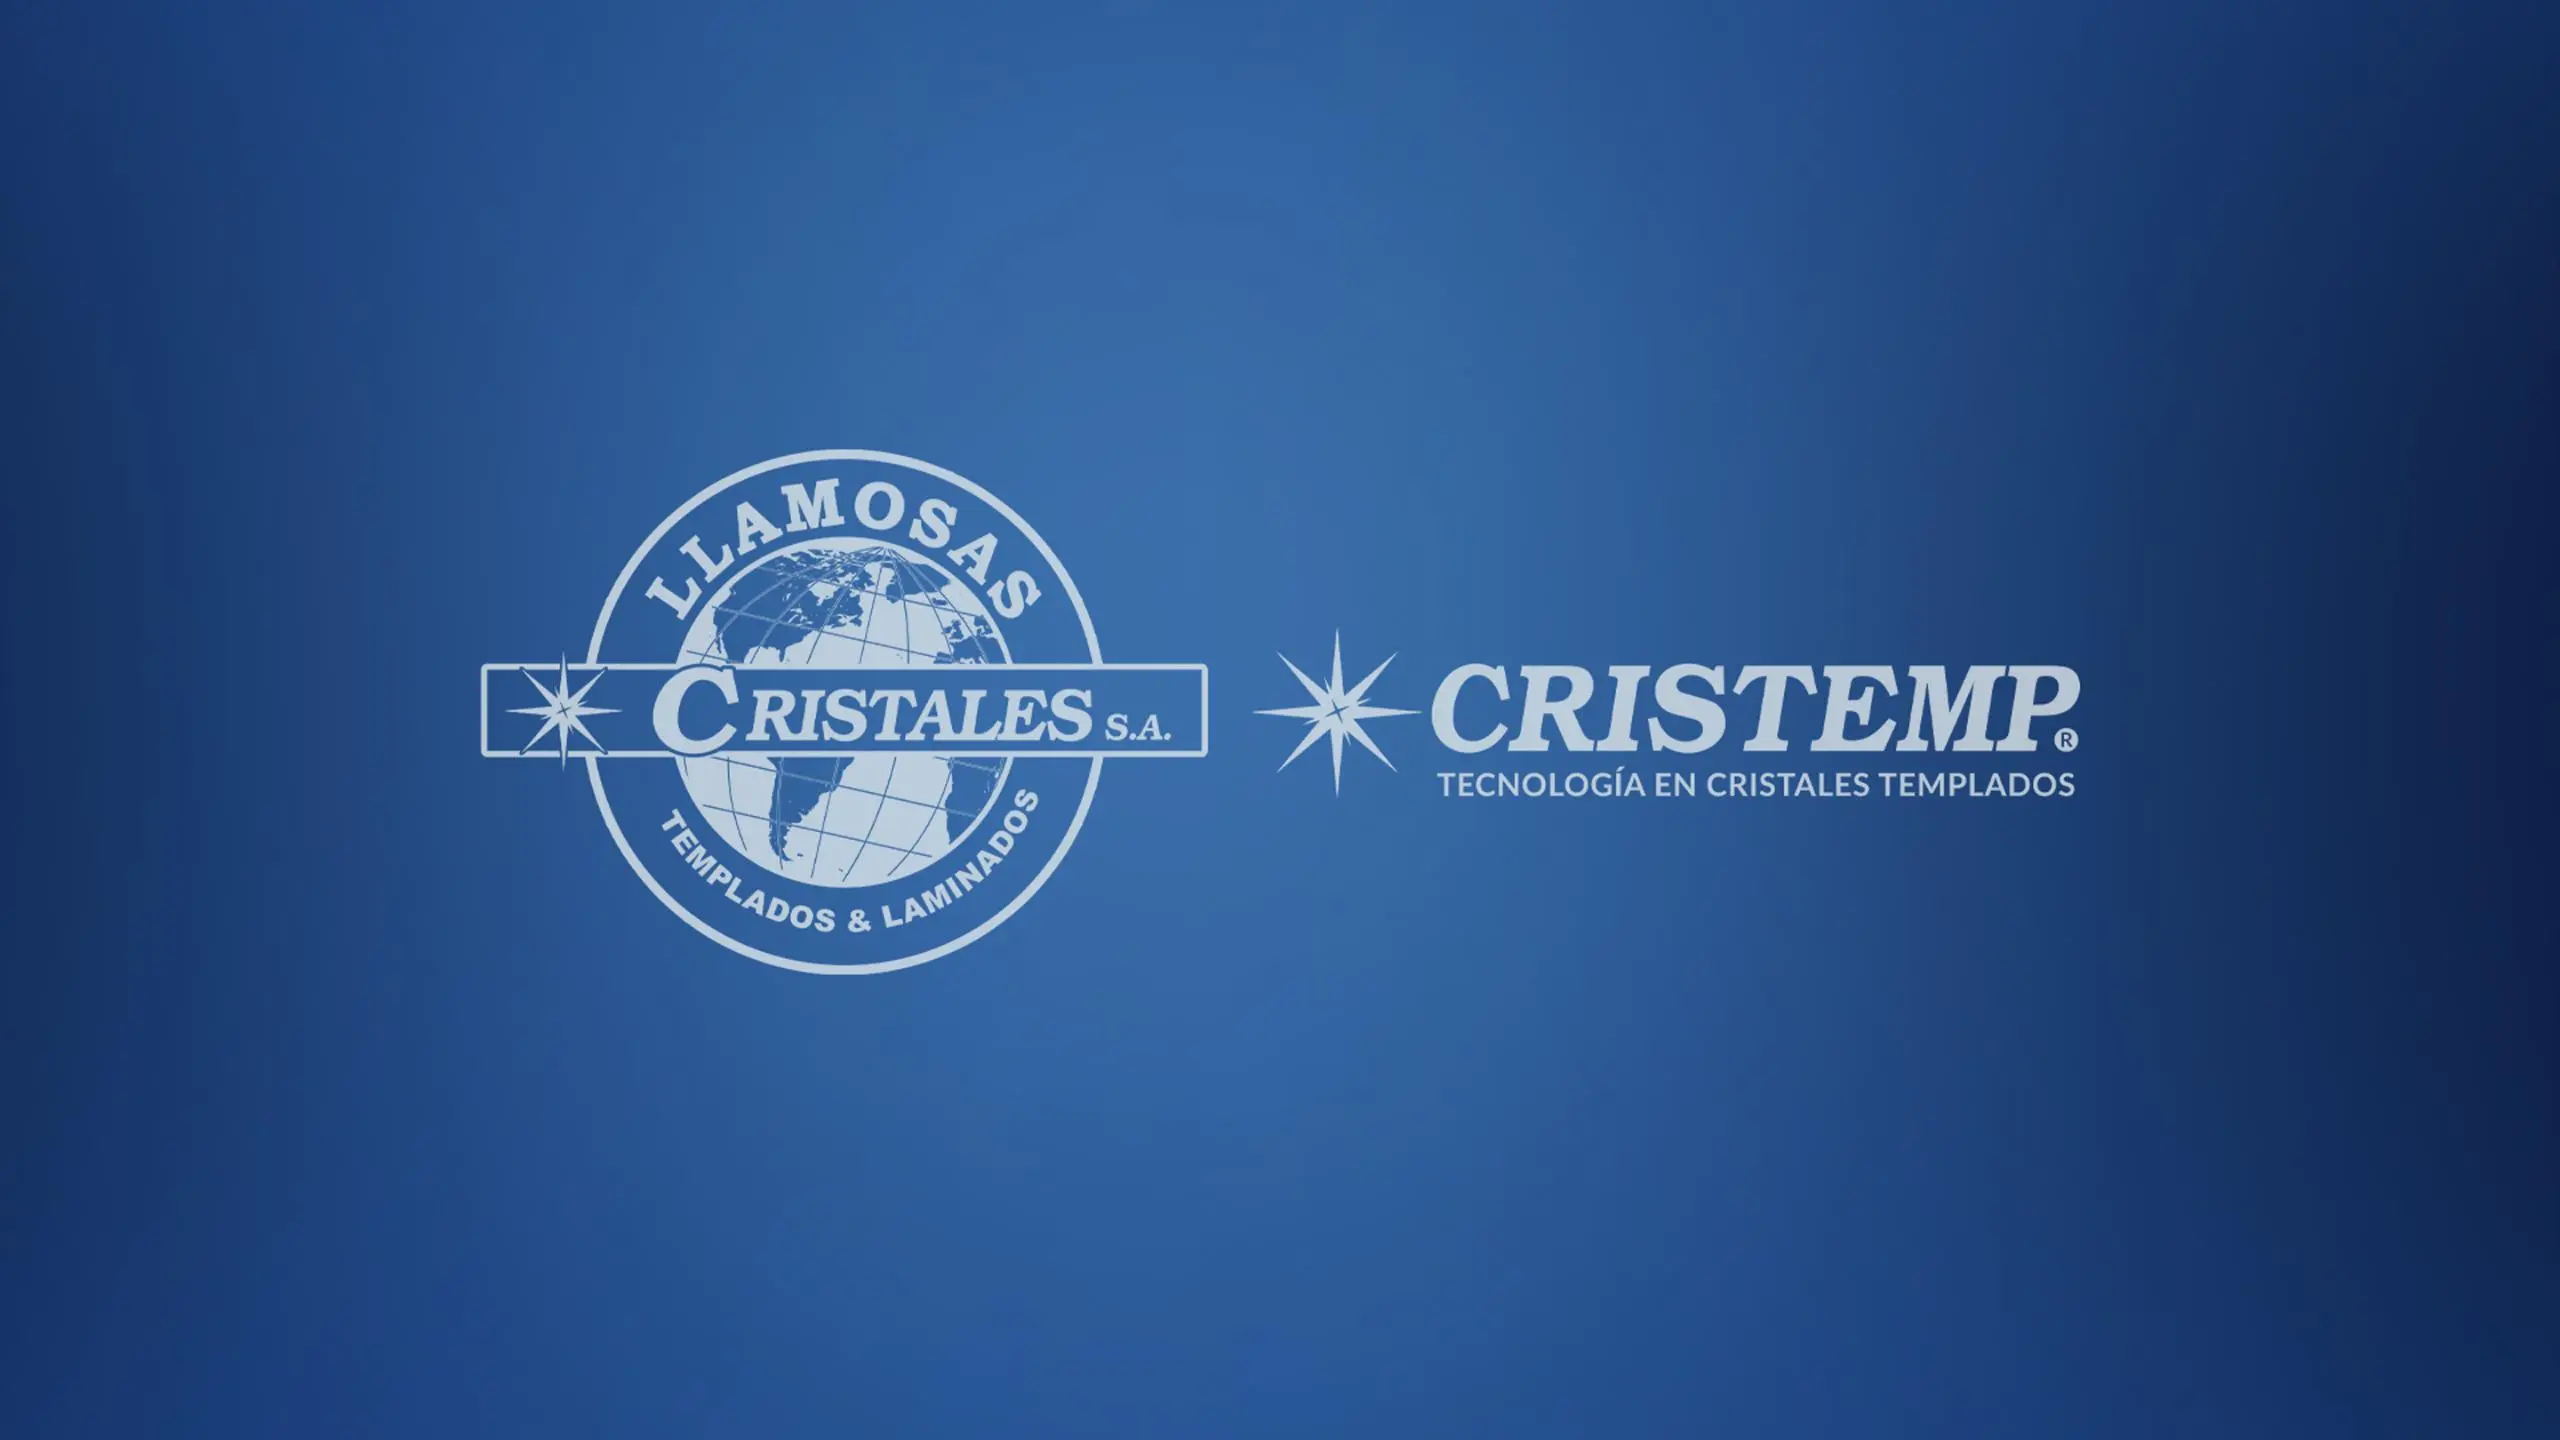
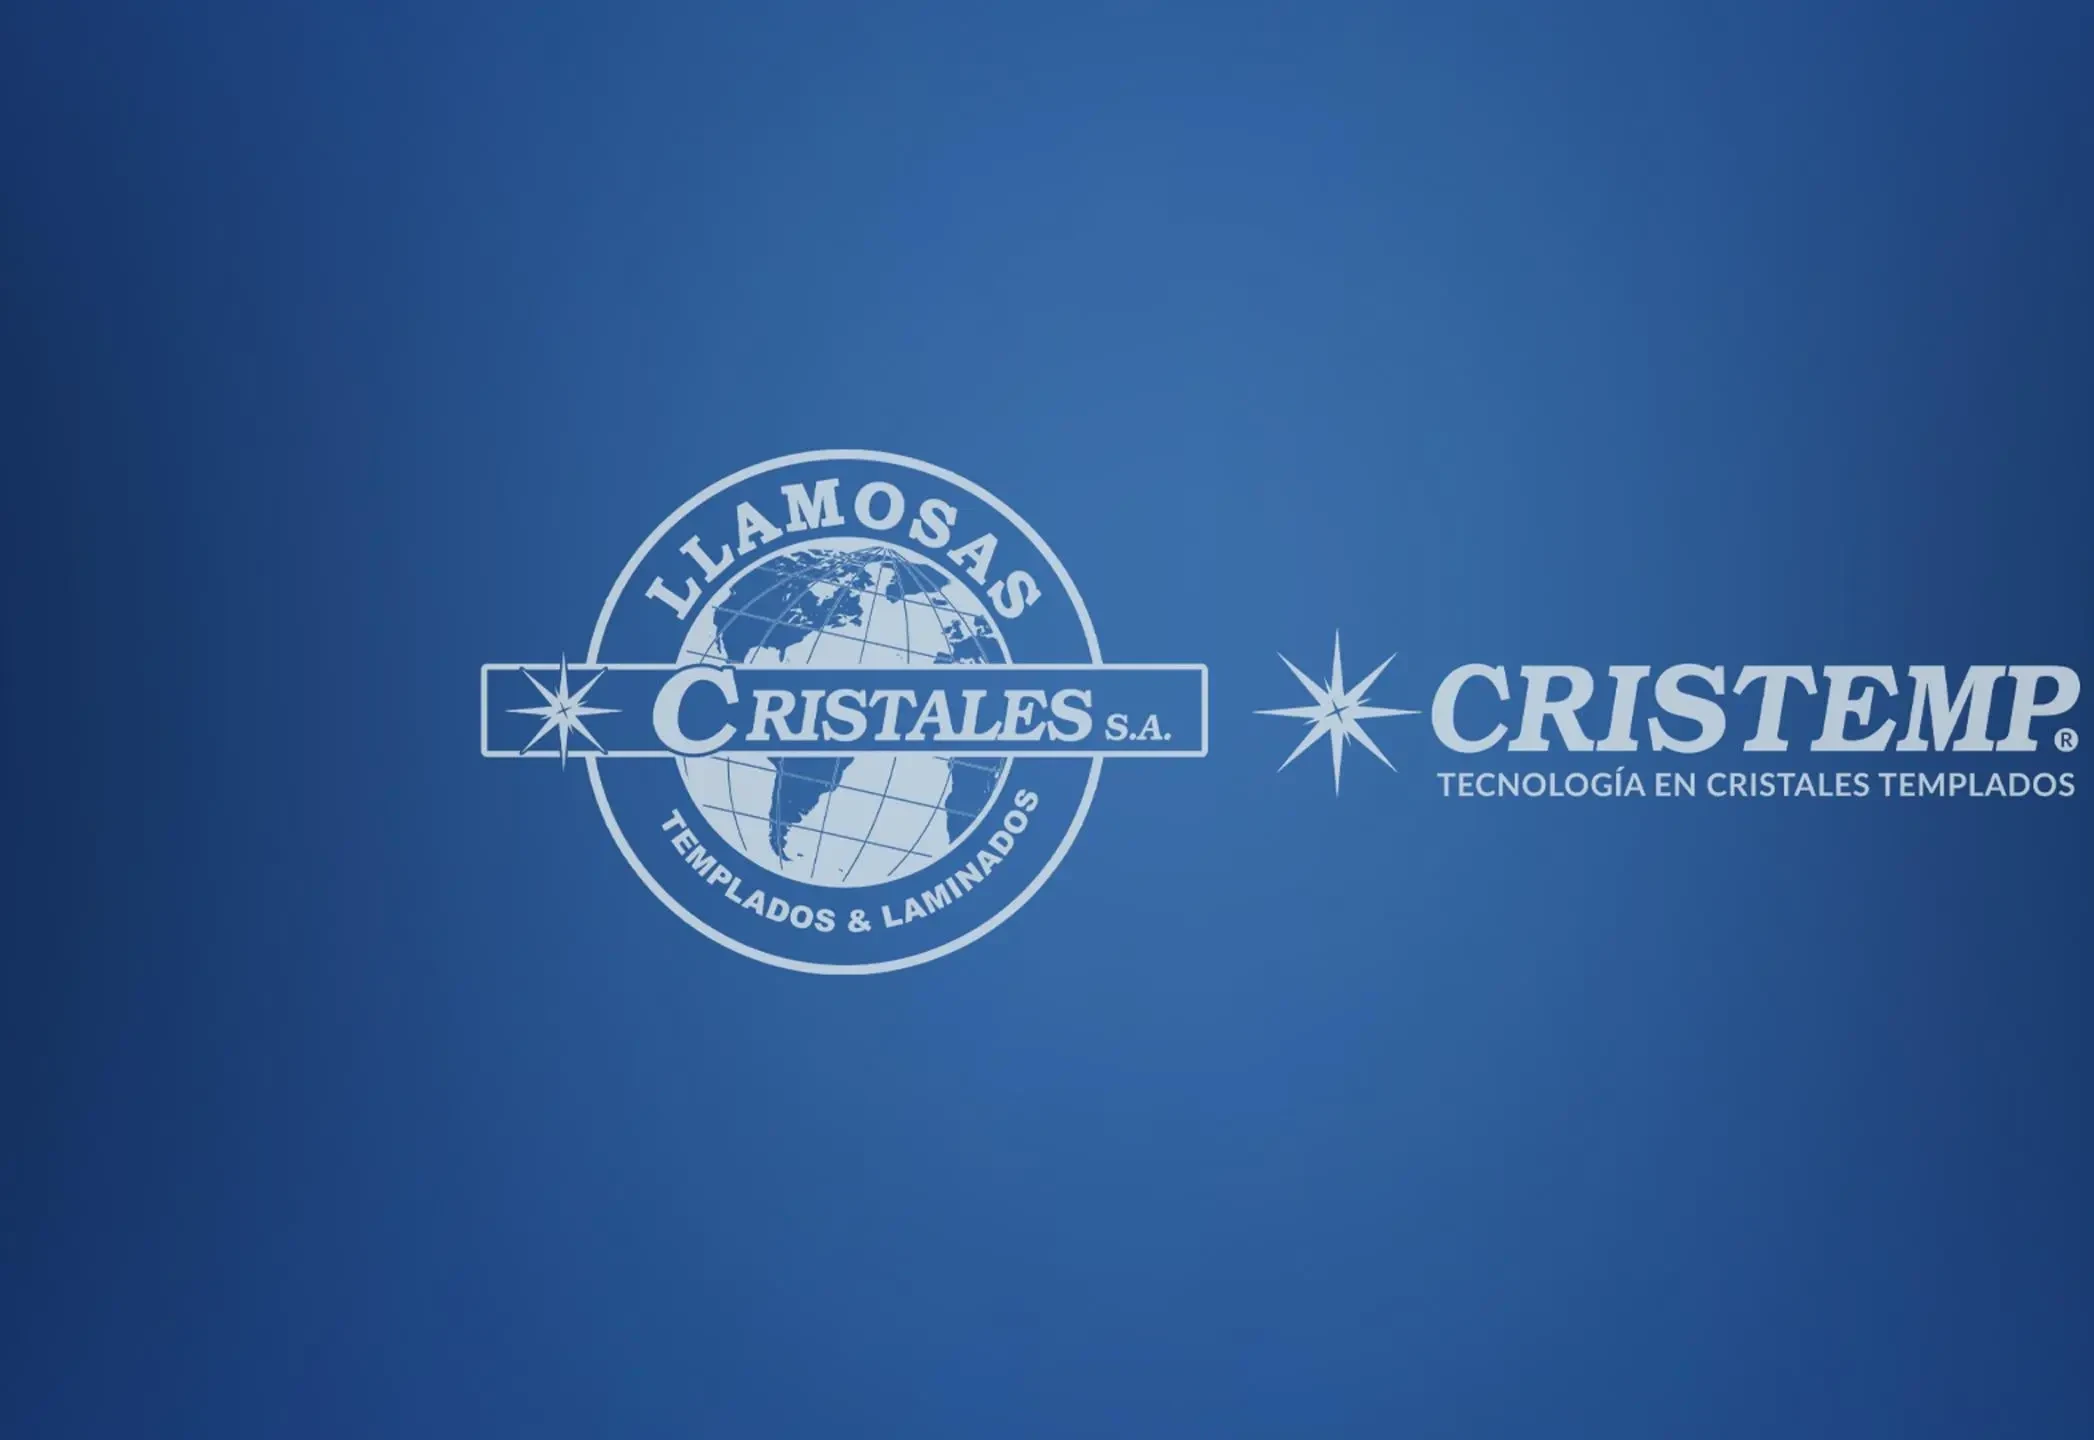
Correcion para dispositivos moviles y actualizacion de imagenes

Changed region(s): [[0.1862, 0.0, 1.0, 1.0]]

diff --git a/css/styles.css b/css/styles.css
@@ -299,14 +299,20 @@ a {
   inset: 0;
   width: 100%;
   height: 100%;
+  background-size: cover;
+  background-repeat: no-repeat;
 }
 
-.hero__picture img {
-  width: 100%;
-  height: 100%;
-  object-fit: cover;
-  object-position: center;
+/* Desktop: visible por defecto, encuadre desplazado a la derecha
+   para que el logo no quede tapado por la card */
+.hero__picture--desktop {
   display: block;
+  background-position: 75% center;
+}
+
+/* Mobile: oculto por defecto, se activa en la media query de abajo */
+.hero__picture--mobile {
+  display: none;
 }
 
 .hero__track {
@@ -348,7 +354,7 @@ a {
 /* Card glassmorphism */
 .hero__card {
   position: absolute;
-  left: clamp(24px, 6vw, 100px);
+  left: clamp(12px, 3vw, 48px);
   top: 50%;
   transform: translateY(-50%);
   z-index: 10;
@@ -358,8 +364,8 @@ a {
   border: 1px solid rgba(255, 255, 255, 0.14);
   border-radius: 20px;
   padding: 40px 44px;
-  max-width: 440px;
-  width: calc(100% - 48px);
+  max-width: 400px;
+  width: calc(100% - 24px);
   box-shadow: 0 24px 60px rgba(0, 0, 0, 0.30);
 }
 
@@ -397,6 +403,11 @@ a {
   gap: 12px;
   align-items: center;
   flex-wrap: wrap;
+}
+
+/* Contenido mobile: oculto por defecto, se activa en @media max-width 768px */
+.hero__mobile-content {
+  display: none;
 }
 
 .hero__card-btn {
@@ -1411,13 +1422,88 @@ a {
     display: block;
   }
 
-  .hero__card {
-    padding: 28px;
+  /* ── HERO MOBILE: obra real fullscreen, texto flotando abajo sin card ── */
+  .hero--static {
+    height: 92vh;
+    min-height: 560px;
+    max-height: 780px;
+    overflow: hidden;
+    position: relative;
   }
 
-  .hero--static {
-    height: 78vh;
-    min-height: 480px;
+  .hero__picture--desktop {
+    display: none;
+  }
+  .hero__picture--mobile {
+    display: block;
+    position: absolute;
+    inset: 0;
+    background-position: center 30%;
+  }
+
+  .hero__slide-overlay {
+    position: absolute;
+    inset: 0;
+    background: linear-gradient(
+      180deg,
+      rgba(5,13,24,0.10) 0%,
+      rgba(5,13,24,0.05) 35%,
+      rgba(5,13,24,0.55) 75%,
+      rgba(5,13,24,0.88) 100%
+    );
+  }
+
+  /* Card de desktop: oculta en mobile, se usa el bloque nuevo de abajo */
+  .hero__card {
+    display: none;
+  }
+
+  /* Contenido mobile: texto directo sobre la imagen */
+  .hero__mobile-content {
+    display: flex;
+    position: absolute;
+    left: 0;
+    right: 0;
+    bottom: 0;
+    z-index: 10;
+    padding: 0 24px 40px;
+    flex-direction: column;
+    align-items: flex-start;
+  }
+
+  .hero__mobile-label {
+    font-family: var(--f-display);
+    font-size: 0.7rem;
+    font-weight: 700;
+    letter-spacing: 3px;
+    text-transform: uppercase;
+    color: var(--gold);
+    margin-bottom: 10px;
+  }
+
+  .hero__mobile-title {
+    font-family: var(--f-display);
+    font-size: 2.2rem;
+    font-weight: 800;
+    line-height: 1.05;
+    text-transform: uppercase;
+    color: var(--white);
+    text-shadow: 0 2px 12px rgba(0,0,0,0.4);
+    margin-bottom: 20px;
+  }
+
+  .hero__mobile-btn {
+    display: inline-block;
+    font-family: var(--f-display);
+    font-size: 0.78rem;
+    font-weight: 700;
+    letter-spacing: 1.5px;
+    text-transform: uppercase;
+    color: var(--blue-deep);
+    background: var(--white);
+    padding: 13px 30px;
+    border-radius: 30px;
+    text-decoration: none;
   }
 
   .cat-bar {
@@ -2296,6 +2382,13 @@ a {
   transform: scale(1.02);
 }
 
+/* Obra 5 (obras5.webp) es vertical — limitamos su altura para que no domine la galería */
+.gallery__item:nth-child(5) img {
+  height: 900px;
+  object-fit: cover;
+  object-position: center 25%;
+}
+
 .gallery__item::after {
   content: '';
   position: absolute;
@@ -2497,6 +2590,7 @@ a {
   .gallery { gap: 60px; padding: 0 16px; }
   .gallery__item-info { padding: 25px; }
   .gallery__item-info h3 { font-size: 1.8rem; }
+  .gallery__item:nth-child(5) img { height: 620px; }
   .lightbox { padding: 16px; }
   .lightbox__btn--prev { left: 8px; }
   .lightbox__btn--next { right: 8px; }

diff --git a/index.html b/index.html
@@ -62,15 +62,11 @@
   <!-- ════ HERO ════ -->
   <section class="hero hero--static">
 
-    <picture class="hero__picture">
-      <!-- Mobile: imagen vertical -->
-      <source media="(max-width: 768px)" srcset="images/cristemp_index_mobile.webp">
-      <!-- Desktop: imagen horizontal -->
-      <img class="hero__slide-img" src="images/cristemp_index.webp" alt="Cristemp — Vidrio templado industrial" loading="eager">
-    </picture>
+    <div class="hero__picture hero__picture--desktop" style="background-image:url('images/cristemp_index.webp');"></div>
+    <div class="hero__picture hero__picture--mobile" style="background-image:url('imagesObras/obras5.webp');"></div>
     <div class="hero__slide-overlay"></div>
 
-    <!-- Card glassmorphism -->
+    <!-- Card glassmorphism (solo desktop) -->
     <div class="hero__card">
       <span class="hero__card-label">Caaguazú · Paraguay</span>
       <h1 class="hero__card-title">Elegí tu vidrio<br>Cristemp</h1>
@@ -79,6 +75,13 @@
       <div class="hero__card-actions">
         <a href="productos.html" class="hero__card-btn">Ver más</a>
       </div>
+    </div>
+
+    <!-- Contenido mobile: texto directo sobre la imagen, sin card -->
+    <div class="hero__mobile-content">
+      <span class="hero__mobile-label">Caaguazú · Paraguay</span>
+      <h1 class="hero__mobile-title">Elegí tu vidrio<br>Cristemp</h1>
+      <a href="productos.html" class="hero__mobile-btn">Ver más</a>
     </div>
 
   </section>
@@ -127,8 +130,8 @@
         <div class="disc-card__overlay"></div>
         <div class="disc-card__icon">↗</div>
         <div class="disc-card__body">
-          <div class="disc-card__name">Nuestras obras</div>
-          <div class="disc-card__sub">Proyectos ejecutados</div>
+          <div class="disc-card__name">Obras</div>
+          <div class="disc-card__sub">Proyectos ejecutados por nuestros clientes</div>
         </div>
       </a>
 

diff --git a/obras.html b/obras.html
@@ -95,6 +95,13 @@
           <h3>Diseño Minimalista</h3>
         </div>
       </div>
+      <!-- Obra 5 -->
+      <div class="gallery__item" data-index="4">
+        <img src="imagesObras/obras5.webp" alt="Obra Cristemp 5" loading="lazy">
+        <div class="gallery__item-info">
+          <h3>Integración Vertical</h3>
+        </div>
+      </div>
     </div>
   </section>
 
